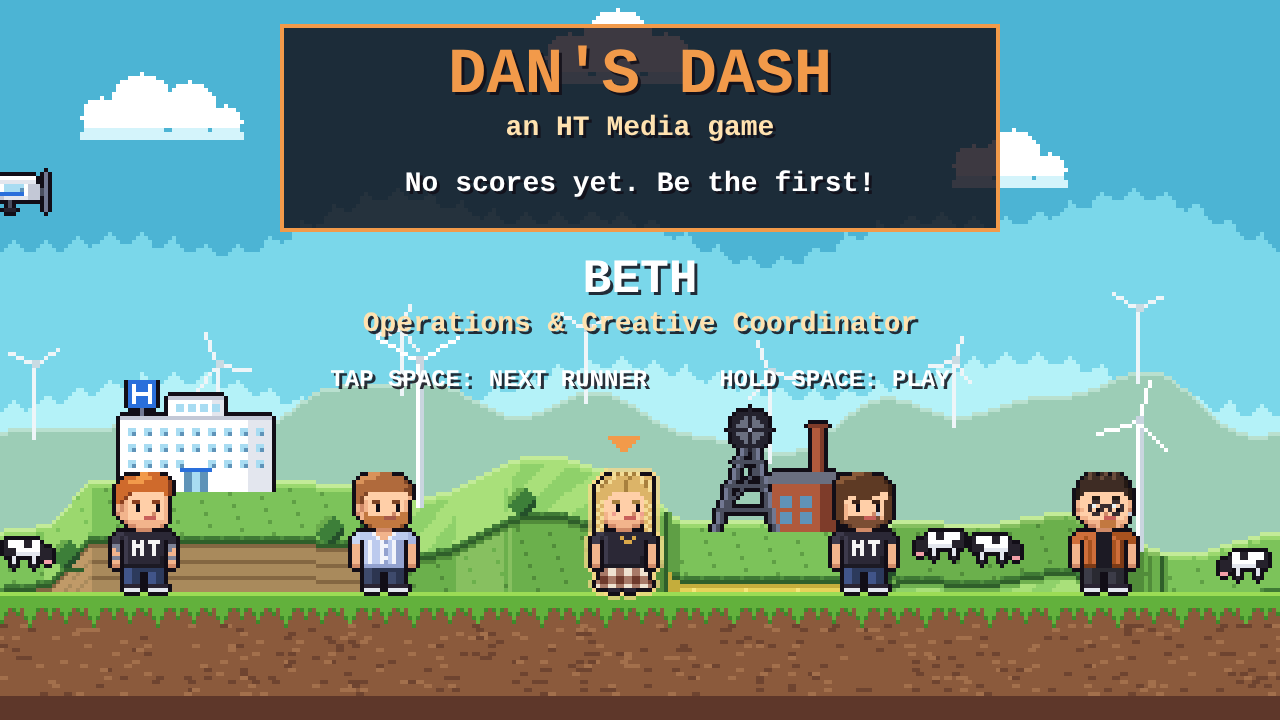
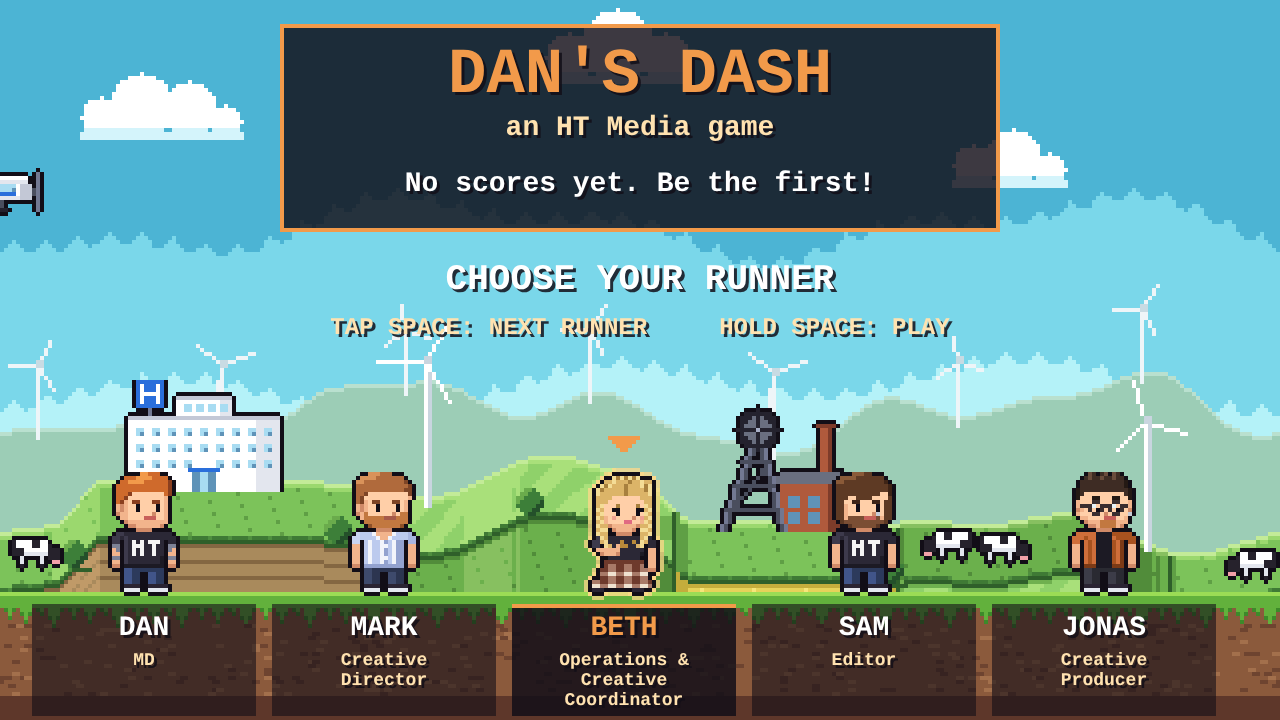
Label each runner with name and role; restyle Beth; add arms to Jonas's glasses
- Title screen: name and role plate under each person, the chosen
  runner highlighted
- Beth: long hair over her shoulders, lashes, fine brows, pink lips,
  fitted top and a high-waisted flared gingham skirt
- Jonas: glasses arms run back to his ears

Claude-Session: https://claude.ai/code/session_012JLRS1jhkpomJrfm7HDQX3

diff --git a/index.html b/index.html
@@ -381,7 +381,25 @@ function drawLineup() {
       for (let k = 0; k < 4; k++) ctx.fillRect(x + 12 + k, y - 9 + k, 8 - 2 * k, 1);
     }
     ctx.drawImage(img, x, y);
+    // name and role on a little plate under each person
+    const cx = x + 16;
+    ctx.fillStyle = chosen ? "rgba(18,14,23,0.85)" : "rgba(18,14,23,0.6)";
+    ctx.fillRect(cx - 28, 151, 56, 28);
+    if (chosen) { ctx.fillStyle = "#f29a4a"; ctx.fillRect(cx - 28, 151, 56, 1); }
+    text(c.name, cx, 157, 7, chosen ? "#f29a4a" : "#fff");
+    wrap(c.role, 13).forEach((line, j) => text(line, cx, 165 + j * 5, 4.5, "#ffe2b0"));
   });
+}
+
+// Split a role into short lines so it fits under a character.
+function wrap(str, max) {
+  const lines = [];
+  for (const word of str.split(" ")) {
+    const last = lines[lines.length - 1];
+    if (last && (last + " " + word).length <= max) lines[lines.length - 1] = last + " " + word;
+    else lines.push(word);
+  }
+  return lines;
 }
 
 function drawWorld() {
@@ -580,13 +598,12 @@ function draw() {
     text("an HT Media game", W / 2, 32, 7, "#ffe2b0");
     const top = loadScores()[0];
     text(top ? `BEST: ${top.name} ${top.score}` : "No scores yet. Be the first!", W / 2, 46, 7, "#fff");
-    text(who().name, W / 2, 70, 12, "#fff");
-    text(who().role, W / 2, 81, 7, "#ffe2b0");
-    text("TAP SPACE: NEXT RUNNER     HOLD SPACE: PLAY", W / 2, 95, 6, "#fff");
+    text("CHOOSE YOUR RUNNER", W / 2, 70, 9, "#fff");
+    text("TAP SPACE: NEXT RUNNER     HOLD SPACE: PLAY", W / 2, 82, 6, "#ffe2b0");
     if (holdStart) {                                    // fills while Space is held
       const k = Math.min(1, (performance.now() - holdStart) / HOLD_MS);
-      ctx.fillStyle = "rgba(18,14,23,0.7)"; ctx.fillRect(W / 2 - 40, 101, 80, 4);
-      ctx.fillStyle = "#f29a4a"; ctx.fillRect(W / 2 - 39, 102, Math.round(78 * k), 2);
+      ctx.fillStyle = "rgba(18,14,23,0.7)"; ctx.fillRect(W / 2 - 40, 89, 80, 4);
+      ctx.fillStyle = "#f29a4a"; ctx.fillRect(W / 2 - 39, 90, Math.round(78 * k), 2);
     }
   }
 

diff --git a/sprites/src/characters.py b/sprites/src/characters.py
@@ -23,7 +23,7 @@ BASE_LEGS = {k: dict(v) for k, v in d.LEGS.items()}
 
 EXTRA = {                                   # colours the team need beyond Dan's
     "B": "#c27840", "V": "#8e5028",         # beard
-    "g": "#d9a84a",                         # gold necklace
+    "g": "#b8893a",                         # gold necklace
     "p": "#f0a090",                         # rosy cheeks
     "q": "#efe2d0", "Q": "#6e3a2c", "R": "#a87a68",   # gingham
     "O": "#3a2e30", "L": "#e6f2f8",         # glasses rims and lens glint
@@ -52,21 +52,26 @@ BETH_HEAD = {
     4:  (9,  "zyyyyyyxyyyyyz"),
     5:  (9,  "yyyyKKKKKKKyyy"),
     6:  (9,  "yyyKKKKKKKKKyy"),
-    7:  (9,  "yzKKxxKKKxxKzy"),     # waves framing the face, brows
-    8:  (9,  "zyKKKoKKKKoKyz"),
+    7:  (9,  "yzKKKxKKKKxKzy"),     # waves framing the face, fine arched brows
+    8:  (9,  "zyKKooKKKKooyz"),     # eyes with lashes
     9:  (9,  "yzKKKoKKKKoKzy"),
     10: (9,  "zykKpKKKKsKpyz"),     # rosy cheeks
-    11: (9,  "yzkKKKKmmmKkzy"),     # smile
-    12: (9,  "zyskkkkkkkksyz"),
-    13: (9,  "yz.sskkkkss.zy"),
-    14: (9,  "zy...ssss...yz"),     # loose curls past the jaw
+    11: (9,  "yzkKKKKmmKKkzy"),     # small pink lips
+    12: (9,  "zyyskkkkkksyyz"),
+    13: (9,  "yzz.skkkks.zzy"),
+    14: (9,  "zyy..ssss..yyz"),     # long hair falling past the jaw
 }
-BETH_TORSO = dict(BASE_TORSO)
-BETH_TORSO.update({
-    16: (10, "bcbbbgbbgbbb"),       # gold chain
-    17: (11, "cbbbbggbbb"),         # pendant
-    18: (11, "cbbbbbbbbb"), 19: (11, "cbbbbbbbbb"), 20: (11, "cbbbbbbbbb"),
-})
+BETH_TORSO = {
+    15: (10, "zybbbbbbbbyz"),       # hair falling in front of her shoulders
+    16: (10, "yzbbbgbbgbzy"),       # gold chain
+    17: (11, "zybbggbbyz"),         # pendant, curl ends
+    18: (11, "cbbbbbbbbb"),
+    19: (11, "cbbbbbbbba"),
+    20: (12, "bbbbbbbb"),           # fitted at the waist
+    21: (11, "QQQQQQQQQQ"),         # high-waisted skirt with an elastic band
+    22: row_of(11, 20, 22, gingham),
+    23: row_of(10, 21, 23, gingham),
+}
 SKIRT = {24: (11, 20), 25: (10, 21), 26: (10, 21), 27: (9, 22), 28: (9, 22)}
 BETH_LEGS = {
     "stand":   {**{y: row_of(a, b, y, gingham) for y, (a, b) in SKIRT.items()},
@@ -108,7 +113,7 @@ JONAS_HEAD = {
     5:  (9,  "xyKKKKKKKKKKyx"),     # short sides
     6:  (9,  "xKKKxxKKKxxKKx"),     # brows
     7:  (9,  "kKKKOOKKKOOKKk"),     # round glasses
-    8:  (9,  "kKKOLKOOOLKOKk"),     # lenses with a glint
+    8:  (9,  "kOOOLKOOOLKOOk"),     # lenses with a glint, arms back to the ears
     9:  (9,  "skKOKoOKOKoOKs"),     # eyes inside the lenses
     10: (9,  "kKKKOOKsKOOKKh"),     # earring
     11: (10, "kkKKKKmmmKKk"),
@@ -165,7 +170,7 @@ CHARACTERS = {
                           "c": "#c9d4f2", "b": "#a8b6e0", "j": "#2c3550", "J": "#3e4a6c", **SKIN_ARMS}},
     "beth":  {"name": "Beth", "role": "Operations & Creative Coordinator", "head": BETH_HEAD,
               "torso": BETH_TORSO, "legs": BETH_LEGS,
-              "palette": {"x": "#a8803e", "y": "#dcb468", "z": "#f4dc96", **SKIN_ARMS}},
+              "palette": {"x": "#a8803e", "y": "#dcb468", "z": "#f4dc96", "m": "#e06a82", **SKIN_ARMS}},
     "sam":   {"name": "Sam", "role": "Editor", "head": SAM_HEAD,
               "palette": {"x": "#3e2416", "y": "#5e3a24", "z": "#8a5a38",
                           "B": "#7a4e34", "V": "#5a3624", **SKIN_ARMS}},
